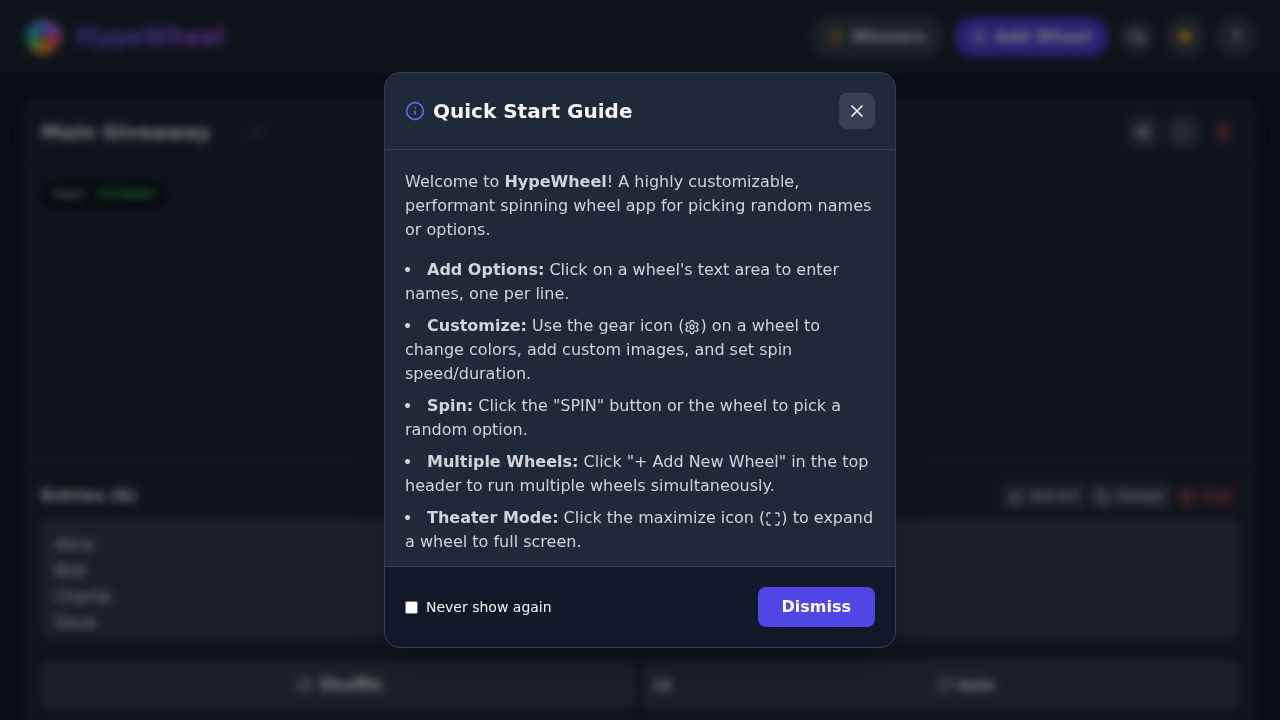
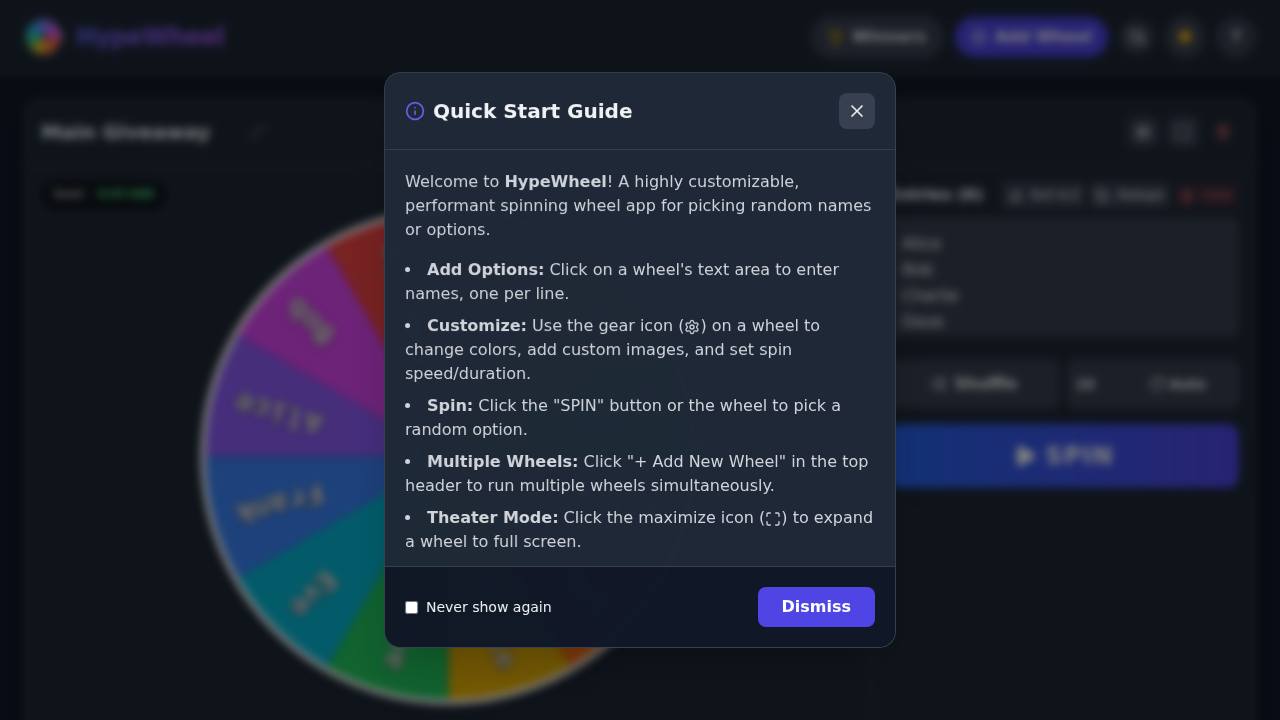
Fix theater mode layout and visibility
- Hide the text area and sort/dedupe/clear buttons in theater mode
- Make the control side bar smaller
- Vertically center the remaining buttons in the control side bar

diff --git a/index.html b/index.html
@@ -1672,9 +1672,9 @@
             );
             this.dom.titleInput.classList.add("text-white");
 
-            this.dom.hideInTheater.style.display = "block";
+            this.dom.hideInTheater.style.display = "none";
             this.dom.controlsArea.className =
-              "controls-area flex flex-col p-4 shrink-0 bg-black/30 backdrop-blur-md w-full lg:w-1/3 border-t lg:border-t-0 lg:border-l border-white/10 transition-all duration-300 h-full overflow-y-auto";
+              "controls-area flex flex-col p-4 shrink-0 bg-black/30 backdrop-blur-md w-full lg:w-64 border-t lg:border-t-0 lg:border-l border-white/10 transition-all duration-300 h-full overflow-y-auto justify-center";
 
 
             this.dom.btnTheater.innerHTML =
